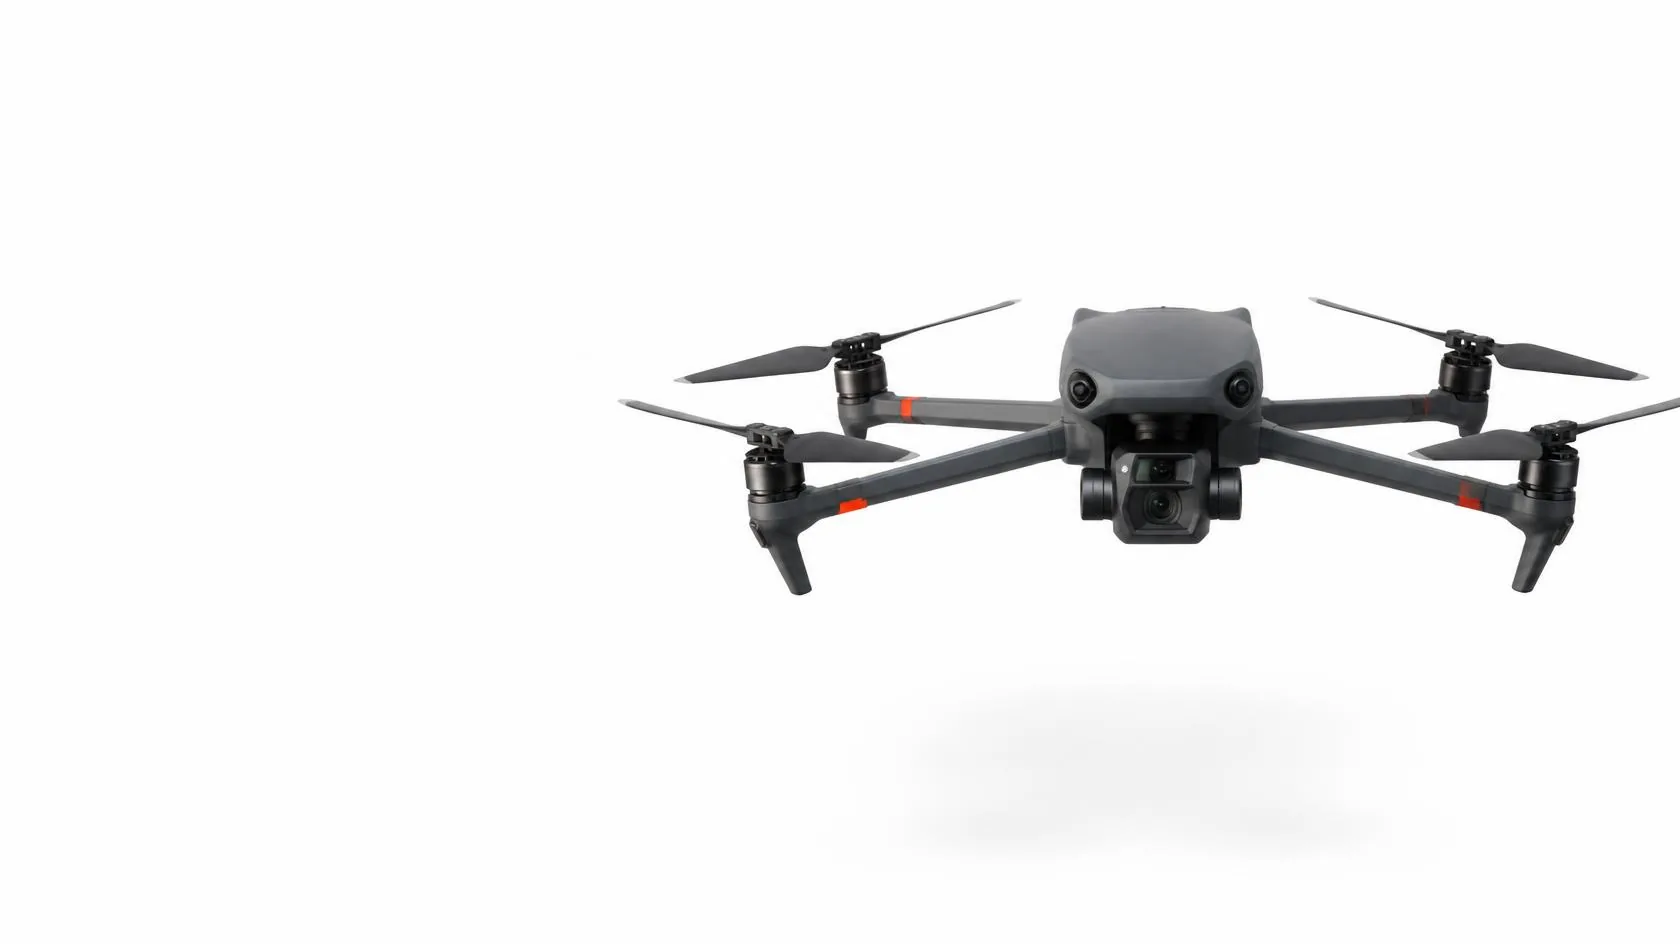
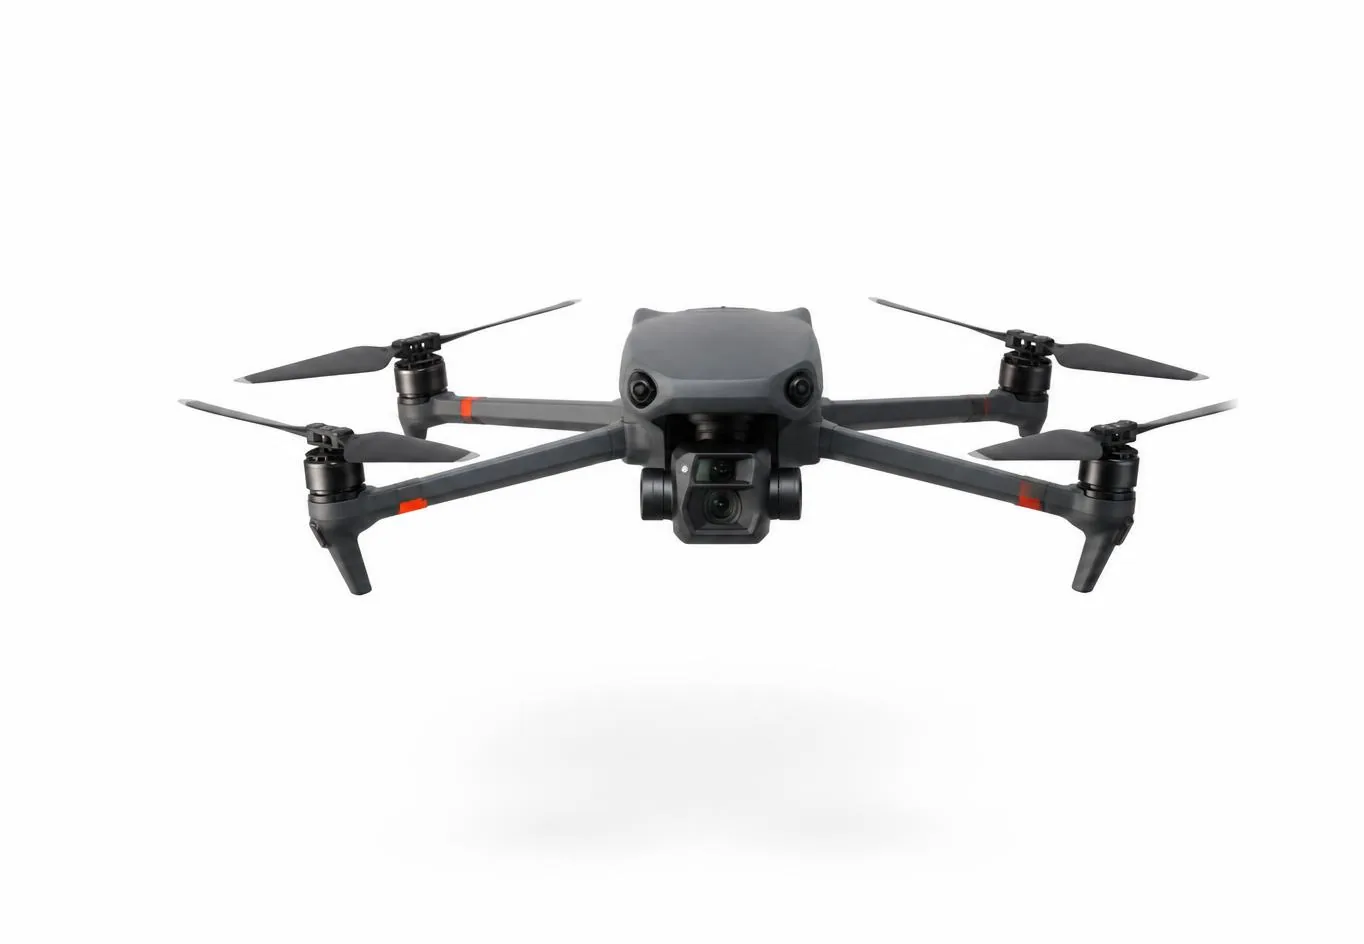
トップのレイアウト崩れを修正し、画像・数字・確認一覧の位置を調整
- 余分な </div> を削除（確認一覧が中央の枠からはみ出していた）
- トップ画像を中央の枠内に配置し、右端のプロペラが切れて見えないよう画像を調整
- 100g／150m／夜間飛行 の下端をそろえた
- 確認一覧を均等に近い3列にし、記事リンクが右端に寄らないようにした

Changed region(s): [[0.154, 0.3072, 1.0, 0.6451], [0.3695, 0.3072, 0.4311, 0.3379], [0.1232, 0.3994, 0.154, 0.4301]]

diff --git a/index.html b/index.html
@@ -20,8 +20,8 @@ layout: null
 
 /* ---- hero：白いスタジオ写真＋黒の太字（写真の余白に見出しを置く） ---- */
 .hero{position:relative;min-height:min(78svh,740px);display:flex;align-items:center;overflow:hidden;background:#FEFEFE;color:#000;border-bottom:1px solid var(--rule)}
-.hero-media{position:absolute;top:0;bottom:0;right:0;width:min(64%,1100px)}
-.hero-media img{width:100%;height:100%;object-fit:contain;object-position:100% 50%;display:block}
+.hero-media{position:absolute;top:0;bottom:0;right:max(32px,calc((100% - var(--wrap)) / 2 + 32px));width:min(44%,580px)}
+.hero-media img{width:100%;height:100%;object-fit:contain;object-position:50% 50%;display:block}
 .hero-inner{position:relative;z-index:2;width:100%;max-width:var(--wrap);margin:0 auto;padding:96px 32px}
 .hero-card{max-width:600px}
 .hero-kicker{font-weight:700;font-size:16px;letter-spacing:.04em;color:var(--ink-2)}
@@ -37,11 +37,11 @@ layout: null
 .hero-card>*:nth-child(4){animation-delay:.24s}
 .hero-card>*:nth-child(5){animation-delay:.32s}
 @keyframes rise{from{opacity:0;transform:translateY(18px)}}
-@media (max-width:1180px) and (min-width:761px){.hero-media{width:62%}.hero-card{max-width:500px}.hero h1{font-size:clamp(34px,4.6vw,52px)}.hero .lead{max-width:22em}}
+@media (max-width:1180px) and (min-width:761px){.hero-media{width:50%;right:24px}.hero-card{max-width:500px}.hero h1{font-size:clamp(34px,4.6vw,52px)}.hero .lead{max-width:22em}}
 @media (max-width:760px){
   .hero{display:block;min-height:0;background:#fff}
-  .hero-media{position:relative;width:100%;aspect-ratio:3/2;background:#FEFEFE}
-  .hero-media img{object-fit:cover;object-position:100% 50%}
+  .hero-media{position:relative;right:auto;width:100%;aspect-ratio:3/2;background:#FEFEFE}
+  .hero-media img{object-fit:contain;object-position:50% 50%}
   .hero-inner{padding:32px 20px 56px}
   .hero-kicker{font-size:14px}
   .hero h1{font-size:clamp(30px,9vw,40px);margin:12px 0 16px}
@@ -56,8 +56,8 @@ layout: null
 .num{padding:34px 32px 40px 0;border-right:1px solid var(--rule)}
 .num+.num{padding-left:32px}
 .num:last-child{border-right:none}
-.num b{display:block;font-family:var(--f-en);font-weight:600;font-size:clamp(56px,7.4vw,100px);line-height:1;letter-spacing:-.03em;color:var(--signal)}
-.num b.word{display:flex;align-items:flex-end;height:clamp(56px,7.4vw,100px);font-family:var(--f-head);font-weight:900;font-size:clamp(38px,4.8vw,64px);letter-spacing:.01em;line-height:1}
+.num b{display:flex;align-items:flex-end;height:clamp(60px,7.6vw,104px);font-family:var(--f-en);font-weight:600;font-size:clamp(56px,7.4vw,100px);line-height:.8;letter-spacing:-.03em;color:var(--signal)}
+.num b.word{font-family:var(--f-head);font-weight:900;font-size:clamp(38px,4.8vw,64px);letter-spacing:.01em;line-height:.9}
 .num b span{font-size:.42em;letter-spacing:0;margin-left:4px;font-family:var(--f-head);font-weight:900}
 .num h3{font-size:17px;margin:22px 0 8px}
 .num p{font-size:14.5px;color:var(--ink-2);line-height:1.9}
@@ -70,7 +70,7 @@ layout: null
   .num h3{margin:4px 0 6px}
 }
 .checks{margin-top:72px;display:grid;gap:0;border-top:1px solid var(--rule)}
-.check{display:grid;grid-template-columns:200px 1fr minmax(0,300px);gap:24px 40px;padding:30px 0;border-bottom:1px solid var(--rule);align-items:start}
+.check{display:grid;grid-template-columns:200px minmax(0,1fr) minmax(0,1fr);gap:24px 48px;padding:30px 0;border-bottom:1px solid var(--rule);align-items:start}
 .check h3{font-size:21px;display:flex;align-items:center;gap:12px}
 .check h3 svg{flex:none;color:var(--signal)}
 .check ul{margin:0;padding-left:1.1em;color:var(--ink-2);font-size:15px;line-height:2}
@@ -170,7 +170,7 @@ layout: null
     <div class="hero-media">
       <picture>
         <source type="image/webp" srcset="{{ '/assets/img/hero-drone.webp' | relative_url }}">
-        <img src="{{ '/assets/img/hero-drone.jpg' | relative_url }}" alt="白い背景の中で、正面を向いて浮かぶダークグレーのドローン" width="1680" height="944" fetchpriority="high">
+        <img src="{{ '/assets/img/hero-drone.jpg' | relative_url }}" alt="白い背景の中で、正面を向いて浮かぶダークグレーのドローン" width="1364" height="944" fetchpriority="high">
       </picture>
     </div>
     <div class="hero-inner">
@@ -217,7 +217,6 @@ layout: null
           <h3>承認が必要な飛ばし方</h3>
           <p>日没後から<wbr>日の出前までの<wbr>飛行には、<wbr>国の<wbr>承認が<wbr>必要です。</p>
         </div>
-      </div>
       </div>
 
       <div class="checks">
